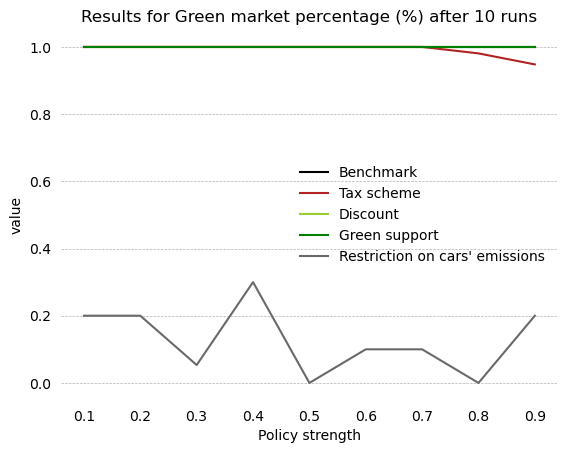
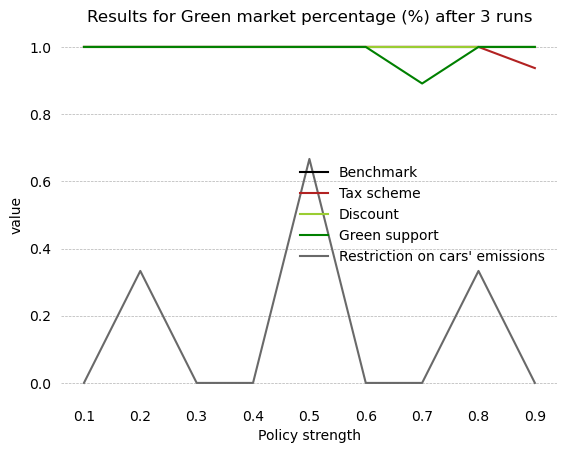
1 for benchmark graph

diff --git a/generalization.py b/generalization.py
@@ -103,7 +103,7 @@ def plot_policies(results, levels, n):
                 y_s.append(y_output)
             # Plot each policy line
             if pol is None:
-                y_s = [b / b if b != 0 else 0 for b in benchmark_values]
+                y_s = [b / b if b != 0 else 1 for b in benchmark_values]
             ax.plot(x_s, y_s, label=policies_titles[pol][0], color=policies_titles[pol][1])
         # Finish touches
         ax.legend(frameon=False)
@@ -145,8 +145,8 @@ def benchmark(n=10):
 
 if __name__ == '__main__':
     t0 = time.time()
-    m = 10
-    # benchmark(m)
+    m = 3
+    benchmark(m)
     r, l, m = policies(m)
     plot_policies(r, l, m)
     print(f'This run took {time.time() - t0:.2f} seconds!')

diff --git a/cars.py b/cars.py
@@ -48,7 +48,7 @@ class Vehicle:
                 policy_value = params.green_support[self.firm.sim.policy['level']] * e_parameter
         # TODO: Although sales price is full, probably firms should receive value deduced from iva and policy tax?
         self.sales_price = (1 + params.iva) * (1 + params.p_lambda) * \
-                           (1 + policy_tax) * self.production_cost - 1 + policy_value
+                           (1 + policy_tax) * self.production_cost + policy_value
         return policy_tax * self.production_cost + policy_value
 
     def criteria_selection(self, emotion, criteria1, criteria2):

diff --git a/firms.py b/firms.py
@@ -130,6 +130,7 @@ class Firm:
             to_invest_now = investments * 1 if len(self.cars) == 1 else investments * .5
             if rdm < 1 - e ** (-params.alpha1 * to_invest_now):
                 # Success. Investment to occur!
+                # TODO: implement future reduction on investments costs
                 self.investments[tech][self.sim.t] += to_invest_now
                 self.budget -= to_invest_now
                 self.sim.log.info(params.cor.Fore.LIGHTCYAN_EX + f'Advertise material. We, at firm {self.id}, '
